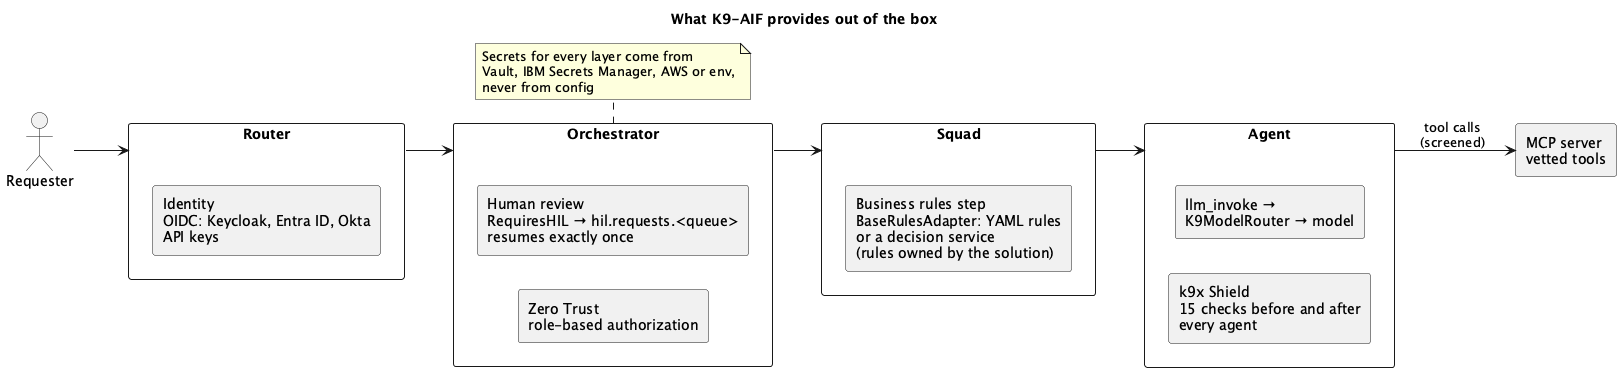
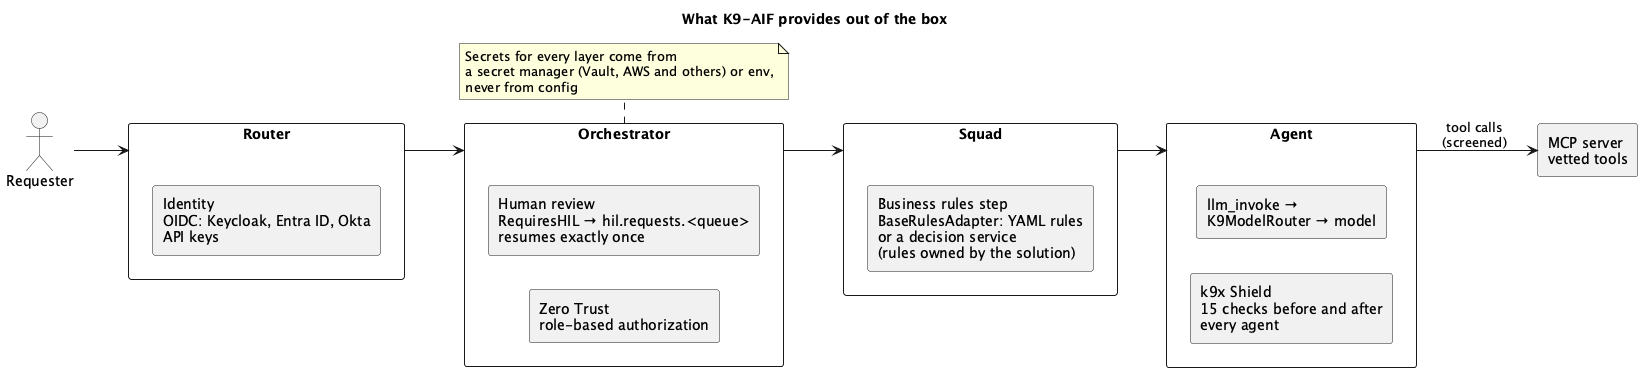
Blog draft: desktop review fixes (vendor-neutral identity, RulesEngine in config comment, adapter caution, shared audit store, test names)

diff --git a/_posts/2026-11-10-a-prompt-cannot-change-your-agent.md b/_posts/2026-11-10-a-prompt-cannot-change-your-agent.md
@@ -23,7 +23,7 @@ Every request in K9-AIF takes one path: Router → Orchestrator → Squad → Ag
 | Router         | Identity                       | `OIDCAuthenticator` (`KeycloakAuthenticator`, `EntraIDAuthenticator`, `OktaAuthenticator`), `ApiKeyAuthenticator` | Authenticates the caller before anything runs                                                                                                                 |
 | Orchestrator   | Zero Trust                     | `DefaultZeroTrustGuard`, `RoleBasedAuthorizationGuard`                                                                  | Checks the caller's role is allowed this action, scores risk, masks sensitive data                                                                            |
 | Orchestrator   | Human review                   | `RequiresHIL`, `BaseHILOrchestrator`                                                                                    | Publishes a review to `hil.requests.<queue>`; the flow waits, without holding a thread, and resumes once on the decision                                  |
-| Squad          | Business rules                 | `K9RulesAgent` with `K9RulesAdapter` (YAML) or `RestRulesAdapter` (a decision service such as IBM ODM or Drools)      | Applies the solution's own rules. The rules belong to the solution; the framework supplies the adapters                                                       |
+| Squad          | Business rules                 | `K9RulesAgent` with `K9RulesAdapter` (YAML) or `RestRulesAdapter` (a decision service such as Drools)      | Applies the solution's own rules. The rules belong to the solution; the framework supplies the adapters                                                       |
 | Agent          | k9x Shield                     | `ShieldGovernance` with 15 `BaseVulnerabilityCheck` checks                                                              | Screens input, documents and output on every agent; in production the agent can't opt out. SATAN fires an attack at each check to prove it holds                            |
 | Agent          | One path to the model          | `llm_invoke`, `K9ModelRouter`                                                                                           | Agents never call a model directly; the router picks the model by policy                                                                                      |
 | Agent → tools | Governed tools                 | `MCPStreamableHttpConnector`, `@govern_tool_call`, `@govern_tool_result`                                              | Calls vetted tools on an MCP server. The call and the result are screened where the decorators are applied; the Claude Agent SDK adapter screens calls through `can_use_tool` and results automatically |
@@ -52,7 +52,7 @@ squads:
 # config/config.yaml: where the rules engine is, not the rules themselves
 rules_agent:
   adapter: rest_rules                  # RestRulesAdapter: any decision service
-  engine_url: ${RULES_ENGINE_URL}      # Drools/KIE, IBM ODM, OpenL Tablets, Corticon, your own
+  engine_url: ${RULES_ENGINE_URL}      # Drools/KIE, OpenL Tablets, Corticon, your own, or K9X RulesEngine (open source, in the pipeline)
   decision_service: payments/approve
   ruleset: invoice_payment
 ```
@@ -87,8 +87,6 @@ It ships in K9-AIF 1.25.0 and is switched on with one setting, `security.tool_ga
 
 ![K9-AIF 1.25.0: every tool call passes one gate that checks values against records](../assets/images/blogs/hil-review-planned.png)
 
-*K9X RulesEngine, an open source rules engine component, is in the pipeline.*
-
 1. **One gate for every tool call.** The agent's code doesn't change. Every connector's `call_tool()` is wrapped by its base class, the same way every agent's `execute()` already is, so a call made inside `execute()` goes to the dispatcher before it runs, not after. Agent code that skips the connector and opens its own network connection or process can't be stopped from inside Python; a new Inspector rule, K9-TOOL-001, flags common raw network and process access at review time, and isolating it at runtime is the deployment's job.
 2. **Values checked against records.** The solution declares, per tool, which arguments must match which record: `account` must equal the vendor's bank account. The dispatcher looks the record up itself through k9x Origin. The agent may also call Origin, or not; it makes no difference to the gate.
 3. **The solution's rules decide,** using facts the model didn't supply: whether the tool is irreversible (a tool nobody declared counts as irreversible) and whether a value didn't match its record or couldn't be checked. The answer is allow, deny, or send it to a person. The rules can only make a call stricter: a value that doesn't match its record never runs without a person, and an irreversible call runs on its own only when a named rule explicitly allows it.
@@ -102,7 +100,7 @@ It doesn't slow the system down much. The dispatcher runs inside each worker, as
 
 ## Where agent identity fits
 
-IBM made [Agent Identity](https://www.ibm.com/new/announcements/ibm-agent-identity-is-now-generally-available-building-trust-for-the-agentic-era) generally available on 26 October 2026, with IBM Verify and HashiCorp Vault. It registers each agent with an owner, a risk class and its approved tool connections, and issues tokens that carry both the user and the agent. That answers *is this the right agent, acting for the right person?* Our invoice agent would pass: it's registered, holds a valid token, and acts for a real clerk. Whether account X belongs to vendor V is a question about the action, not the identity. The two fit together: identity for the right agent, the gate for the right action. Verify speaks OIDC, like the identity providers K9-AIF already supports.
+Agent identity products answer a different question: *is this the right agent, acting for the right person?* They register each agent with an owner and its approved tool connections, and issue short-lived tokens that carry both the user and the agent. Our invoice agent would pass: it's registered, holds a valid token, and acts for a real clerk. Whether account X belongs to vendor V is a question about the action, not the identity. The two fit together: identity for the right agent, the gate for the right action.
 
 ## When something gets through anyway
 
@@ -118,13 +116,13 @@ No framework can do these for you: make an approver read, know that a record was
 
 Every line is a test in `test_tool_gate_1_25.py`, run against the real agent, connector, orchestrator, router and audit log. The rules engine, k9x Origin and the MCP server are test stand-ins, except one test that uses the real `K9RulesAdapter`.
 
-- An agent that never raises `RequiresHIL` still has its irreversible call held, and the tool never runs.
-- Agent code that catches the review and carries on can't hide it, even from one agent up.
-- A value that doesn't match its record never runs without a person, whatever the rules say.
-- A tool nobody declared is treated as irreversible.
-- An approval runs the stored call once; rejected, expired, malformed or late replies never run it.
-- A rules-engine failure holds the call instead of letting it through.
-- The whole round trip works: agent → the Orchestrator publishes the review → the reply comes back through the Router → the stored call runs once.
+- An agent that never raises `RequiresHIL` still has its irreversible call held, and the tool never runs. (`test_irreversible_call_is_held_although_the_agent_never_raises_requires_hil`)
+- Agent code that catches the review and carries on can't hide it, even from one agent up. (`test_agent_code_that_swallows_the_review_cannot_hide_it`, `test_review_raised_in_a_nested_agent_reaches_the_outer_one`)
+- A value that doesn't match its record never runs without a person, whatever the rules say. (`test_rules_cannot_allow_a_value_that_does_not_match_its_record`)
+- A tool nobody declared is treated as irreversible. (`test_undeclared_tool_is_treated_as_irreversible`)
+- An approval runs the stored call once; rejected, expired, malformed or late replies never run it. (`test_approval_runs_the_stored_call_exactly_once`, `test_anything_but_a_valid_approval_never_runs`, `test_a_late_approval_does_not_run`)
+- A rules-engine failure holds the call instead of letting it through. (`test_rules_engine_failure_holds_the_call`)
+- The whole round trip works: agent → the Orchestrator publishes the review → the reply comes back through the Router → the stored call runs once. (`test_round_trip_router_orchestrator_agent_and_back`)
 
 ## What's coming next
 
@@ -148,7 +146,7 @@ The new classes live in `k9_core/tools/`. Three existing base classes were exten
 | `ToolCallPendingReview`                              | A `RequiresHIL`: the existing review path carries it to the Orchestrator                                                                                  |
 | `BaseAgent`, `BaseConnector`, `BaseOrchestrator` | Extended: the agent wrapper opens the gate and re-raises a swallowed review, the connector routes calls to it, and `resume_tool_call()` applies the reply |
 
-Turning it on, in the solution's `config.yaml`:
+Turning it on, in the solution's `config.yaml`. One caution first: in 1.25.0 the gate covers agents built on `BaseAgent`. Tool calls made from agents running in CrewAI, LangGraph or the Claude Agent SDK aren't gated yet, and with the gate on they are refused in production, so keep it off for those solutions until 1.25.1.
 
 ```yaml
 security:
@@ -170,7 +168,7 @@ if resumed is not None:
     return resumed
 ```
 
-Held calls live in the gate's audit log (SQLite by default), so the agent workers and the Orchestrator that resumes them must use the same store.
+Held calls live in the gate's audit log, so the agent workers and the Orchestrator that resumes them must use the same store. The default is a SQLite file, which works for one host or containers sharing a volume; a deployment spread across hosts needs a shared database, and a Postgres audit log is planned.
 
 ## Closing
 
